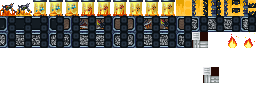
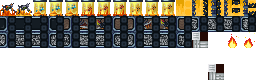
Dante - Pad some sprites for the atlas

diff --git a/Common/ContentReaders/Atlas.cs b/Common/ContentReaders/Atlas.cs
@@ -44,16 +44,12 @@ public class Atlas {
         return new AtlasData();
 
     }
-
     public AnimationAtlasData GetAnimationAtlasData(string lookup, int index) {
-        if (lookup != null) {
-            var b = _atlasMapAnimation.TryGetValue(lookup, out var list);
-            if (b && list.Length >= 1 && list.Length > index) {
+        if (lookup != null && _atlasMapAnimation.TryGetValue(lookup, out var list)) {
+            if (list.Length > index) {
                 return list[index];
             }
         }
-
-        //Console.WriteLine($"Unable to lookup atlas[AnimationAtlasData]: {lookup} - {index}");
         return new AnimationAtlasData();
     }
 

diff --git a/AlloyClient/Game/Components/Hud/CharacterDetails.cs b/AlloyClient/Game/Components/Hud/CharacterDetails.cs
@@ -24,7 +24,7 @@ public sealed class CharacterDetails : Sprite {
             Y = 20,
             Color = 0xdadada,
             OutlineThickness = 0.5f,
-            OutlineColor = 0xcfcfcf,
+            OutlineColor = 0,
             Anchor = UiAnchor.MiddleLeft
         });
         AddChild(_name);
